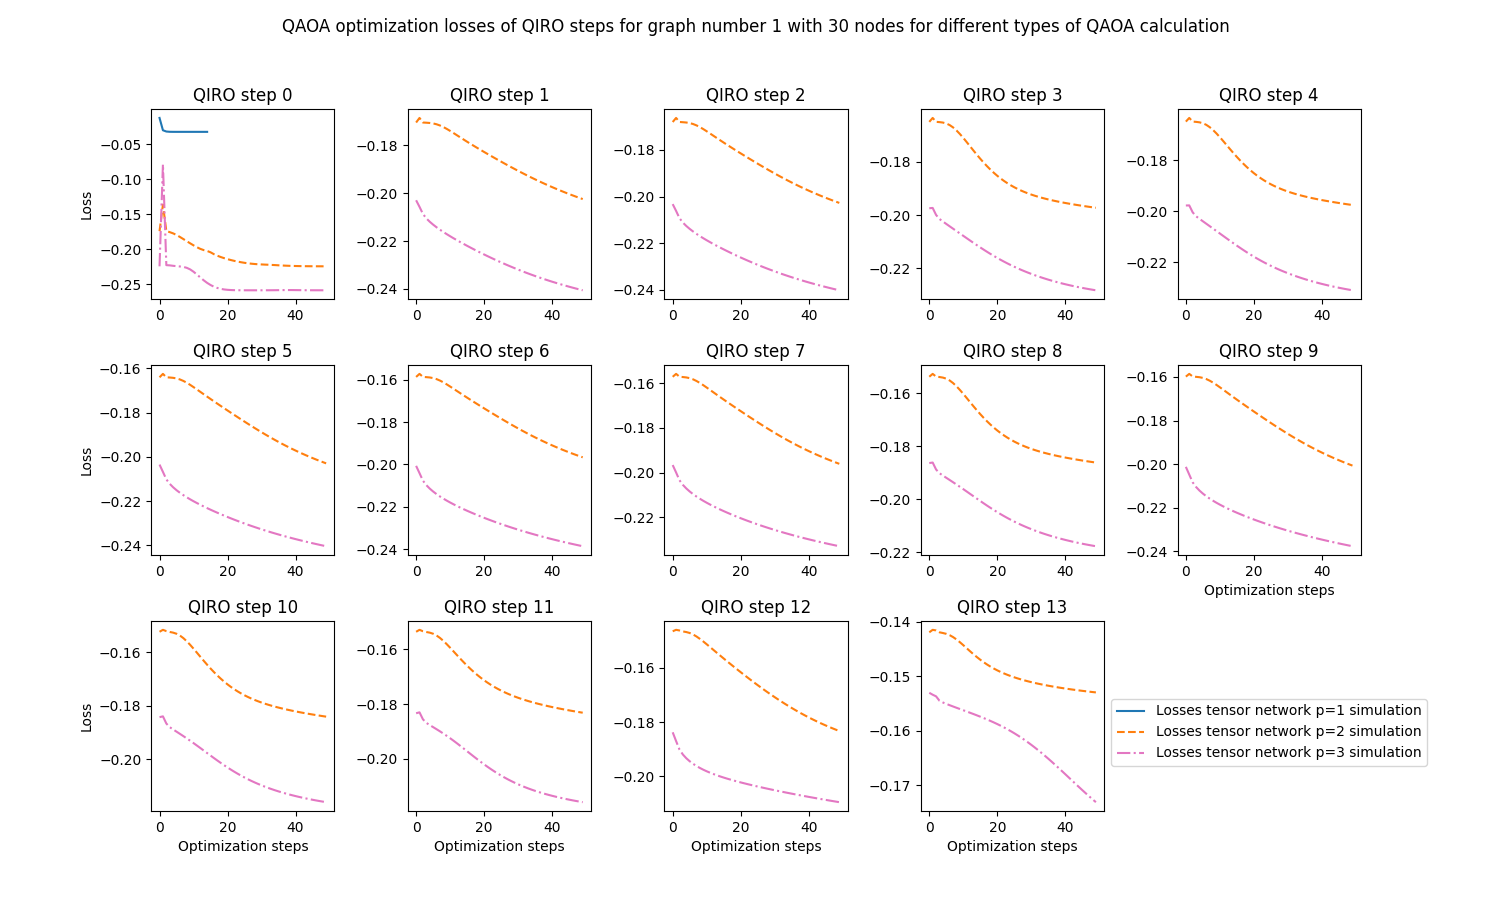
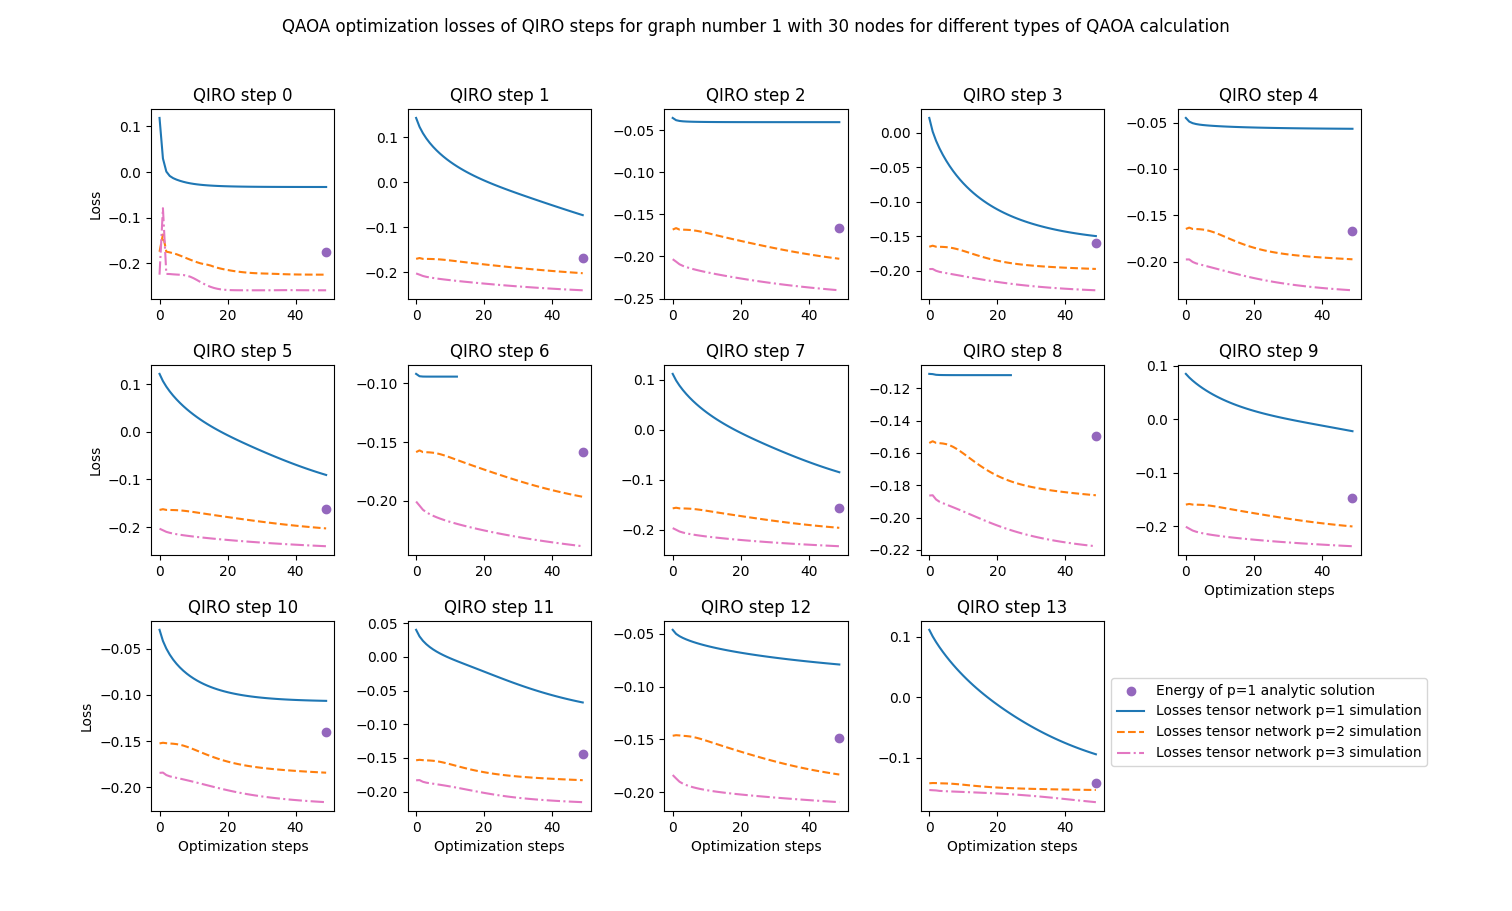
update

diff --git a/Experiments/MIS_QIRO/scripts/Read_results_file.py b/Experiments/MIS_QIRO/scripts/Read_results_file.py
@@ -108,21 +108,21 @@ def plot_energies(ns, ps, runs, version, regularity, per_node=False):
                 try:
                     with open(my_path + f"/data/results_run_{run}_n_{n}_p_{p}_version_{version}.pkl", 'rb') as file:
                         data = pickle.load(file)
-                    num_nodes_qtensor = data['num_nodes_qtensor']
-                    energies_qtensor = [float(j) for j in data['energies_qtensor']]
-                    if per_node==True:
-                        energies_qtensor = [energies_qtensor[j]/num_nodes_qtensor[j] for j in range(len(num_nodes_qtensor))]
                     
-                    plt.plot(list(range(len(energies_qtensor))), energies_qtensor, color=colors[counter], linestyle=linestyles[counter], label = f'Energies tensor network p={p} simulation')
-                    counter += 1
-
                     if p==1:
-                        num_nodes_single = data['num_nodes_qtensor']
+                        num_nodes_single = data['num_nodes_single']
                         energies_single = [float(j) for j in data['energies_single']]
                         if per_node==True:
                             energies_single = [energies_single[j]/num_nodes_single[j] for j in range(len(num_nodes_single))]
                         plt.plot(list(range(len(energies_single))), energies_single, color=colors[counter], linestyle=linestyles[counter], label = f'Energies in analytic calculation')
                         counter += 1
+
+                    num_nodes_qtensor = data['num_nodes_qtensor']
+                    energies_qtensor = [float(j) for j in data['energies_qtensor']]
+                    if per_node==True:
+                        energies_qtensor = [energies_qtensor[j]/num_nodes_qtensor[j] for j in range(len(num_nodes_qtensor))]
+                    plt.plot(list(range(len(energies_qtensor))), energies_qtensor, color=colors[counter], linestyle=linestyles[counter], label = f'Energies tensor network p={p} simulation')
+                    counter += 1
                 except:
                     print(f'file results_run_{run}_n_{n}_p_{p}_version_{version}.pkl not available')
 
@@ -156,9 +156,16 @@ def plot_losses(ns, ps, runs, version, regularity, per_node=False):
                     losses = data['losses_qtensor']
                     if p ==1:
                         energies_single = data['energies_single']
+                        num_nodes_single = data['num_nodes_single']
 
                     for j in range(14):
                         plt.subplot(3, 5, j+1)
+                        if p==1:
+                            energy_single = float(energies_single[j])
+                            if per_node==True:
+                                energy_single = energy_single/num_nodes_single[j]
+                            plt.scatter([49], [energy_single], c=colors[-1], label='Energy of p=1 analytic solution')
+
                         try:
                             losses_per_step = losses[j]
                             if per_node==True:
@@ -172,10 +179,6 @@ def plot_losses(ns, ps, runs, version, regularity, per_node=False):
                                 plt.xlabel('Optimization steps')
                         except:
                             pass
-                        
-                         
-                        if p==1:
-                            plt.scatter([0], [energies_single[j]])
                 except:
                     print(f'file results_run_{run}_n_{n}_p_{p}_version_{version}.pkl not available')
                 counter += 1
@@ -217,7 +220,7 @@ def plot_losses_multiple_versions(ns, ps, runs, versions, regularity, per_node=F
                             if per_node==True:
                                 losses_per_step = [losses_per_step[k]/num_nodes_qtensor[j] for k in range(len(losses_per_step))]
                         
-                            plt.plot(list(range(len(losses_per_step))), losses_per_step, color=colors[counter], linestyle=linestyles[counter], label = f'Losses tensor network p={p} simulation')
+                            plt.plot(list(range(len(losses_per_step))), losses_per_step, color=colors[counter], linestyle=linestyles[counter], label = f'Losses tensor network p={p} simulation verion {version}')
                             plt.title(f'QIRO step {j}')
                             if j==0 or j==5 or j==10:
                                 plt.ylabel('Loss')
@@ -271,9 +274,9 @@ if __name__ == '__main__':
     version = 2
     
 
-    #plot_MIS_size_per_graph(ns, ps, runs, version, regularity)
+    plot_MIS_size_per_graph(ns, ps, runs, version, regularity)
     #plot_energies(ns, ps, runs, version, regularity, per_node=True)
-    plot_losses(ns, ps, runs, version, regularity, per_node=True)
+    #plot_losses(ns, ps, runs, version, regularity, per_node=True)
     #plot_losses_multiple_versions(ns, ps, runs, versions, regularity, per_node=True)
 
         

diff --git a/Experiments/MIS_QIRO/scripts/Run_experiments_1.py b/Experiments/MIS_QIRO/scripts/Run_experiments_1.py
@@ -21,24 +21,20 @@ import matplotlib.pyplot as plt
 if __name__ == '__main__':
 
     reg = 3
-    ns = [30]#, 140, 180]
+    ns = [50]#, 140, 180]
     seed = 666
-    ps= [1]#, 2, 3]
+    ps= [1, 2, 3]
     #num_runs = 10
     runs=list(range(0, 20, 1))
     initialization = 'transition_states'
-    version = 2
+    version = 1
     #execute_RQAOA_single_instance(ns[0], ps[0], num_runs)
     #execute_RQAOA_multiple_instances(ns, ps, num_runs)
     #execute_QIRO_parallel(ns, ps, runs, version)
 
     #execute_QIRO_single_instance(30, 1, 0, 5)
     execute_QIRO_parallel(ns, ps, runs, version, initialization=initialization)
-
-    
-    
-
-
+ 
 
     
     

diff --git a/Calculating_Expectation_Values.py b/Calculating_Expectation_Values.py
@@ -676,7 +676,8 @@ class QtensorQAOAExpectationValuesQUBO(ExpectationValues):
         self.gamma, self.beta = torch.tensor(gamma, requires_grad=True), torch.tensor(beta, requires_grad=True)
         self.loss = None
         self.ordering_algo = ordering_algo
-        self.peos = self.energy_peo()
+        #Why should peos be calculated already at initialization??:
+        #self.peos = self.energy_peo()
         self.E_nodes = None
 
     #TODO Move to optimization part and check which correlations are necessary  
